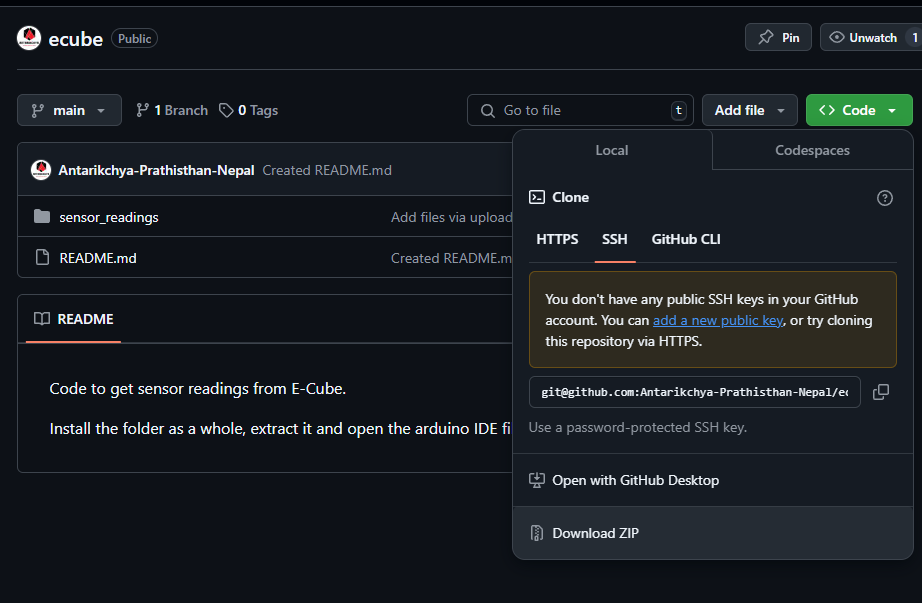
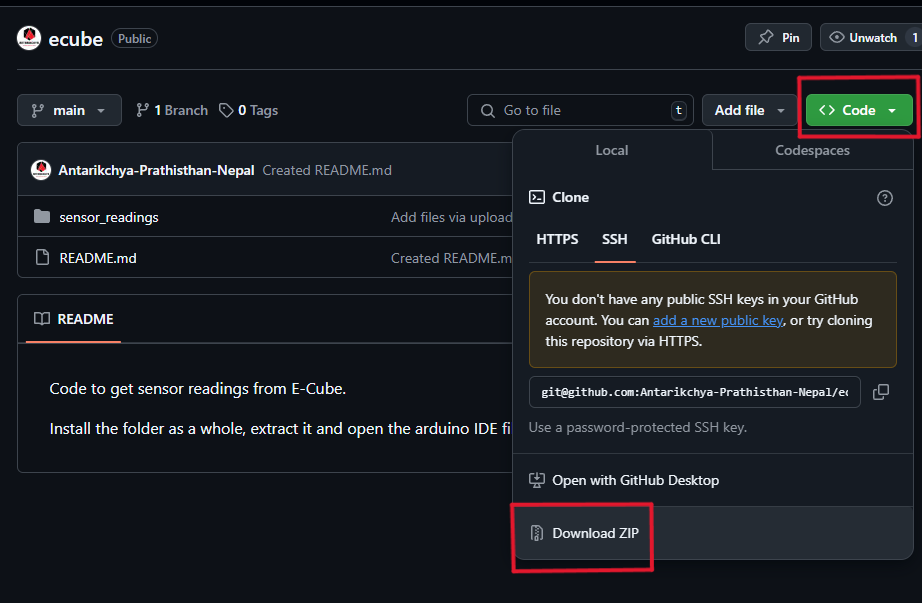
operation guide update

Changed region(s): [[0.5466, 0.806, 0.7289, 0.9552], [0.8503, 0.1194, 1.0, 0.2388]]

diff --git a/en/operationguide/executingthecode.md b/en/operationguide/executingthecode.md
@@ -4,33 +4,52 @@ In this section, we will test our E-Cube by running a pre-written code for E-Cub
 
 ## Step 0: E-Cube Assembly
 
+ The first and the foremost step for using your E-Cube is assembling it. Head over to [Assembly](/en/assembly/index.md) to assemble your E-Cube.
 
 ## Step 1: Environment Setup
 Before Programming, Make sure you have properly setup the environment from [Environment Setup](environmentsetup.md).
 
-This includes setting up Arduino IDE, Properly Connecting 
+This includes setting up Arduino IDE, Board Prefrences and options in the Arduino IDE.
 
 Connect the E-Cube to your PC using the USB Cable provided.
 
-## Code Download
+## Step 2: Code Download
 
 Download the ECube Code from the [Antarikchya GitHub](https://github.com/Antarikchya-Prathisthan-Nepal/ecube/tree/main)
 
+
+
+### a) Follow the link
+### b) Press on the green `code` button
+### c) Press on Download ZIP
 <div style="text-align: center;"><img src="../../public/github1.png" title="On Board Computer" style="max-width: 80%; height: auto; width: 600px; margin-top: 20px;" /></div>
 
-- Follow the link
-- Press on the green `code` button
-- Press on Download ZIP
-- Extract the code
-- Open sensor_readings.ino
+
+### d) Extract the code
+
+ Open "sensor_readings.ino" .
+
+::: danger Caution
+**Do not RENAME, MOVE, OR CHANGE any files in this folder. The .ino file should have the exact name as the folder that contains it.**
+:::
+
+<div style="text-align: center;"><img src="../../public/extract.png" title="On Board Computer" style="max-width: 80%; height: auto; width: 600px; margin-top: 20px;" /></div>
+
 
 This is a pre-written code for E-Cube. When you open the file, it should directly open the installed Arduino IDE. 
 
-## Running the code
 
-Head to [Environment Setup](environmentsetup.md) for the setting up environment guide.
+<div style="text-align: center;"><img src="../../public/sensorino.png" title="On Board Computer" style="max-width: 80%; height: auto; width: 600px; margin-top: 20px;" /></div>
 
-### Select the Board and Port
+When you open the sensor.ino file, all the other source (.c) and header (.h) files will open automatically in multiple tabs.
+
+The sensor.ino file is your main file. This is the file that you will upload in the ecube. Select this tab.
+
+## Step 4: Running the code
+
+Reminder: head to [Environment Setup](environmentsetup.md) for the setting up environment guide before running the code.
+
+### a) Select the Board and Port
 1. Go to **Tools > Board > ESP32 Arduino > ESP32S3 Dev Module**.
 2. Go to **Tools > Port** and select the port where your E-Cube is connected
 2. Ensure the **"USB CDC on Boot"** feature is enabled.
@@ -41,16 +60,16 @@ The following options in the tools section of Arduino IDE are recommended for EC
 
 Upload the code. Look out for the `done uploading` message in terminal.
 
-## Once Your Code is Uploaded
+## Step 5: Once Your Code is Uploaded
 After successfully uploading your code, you can monitor the output using the Serial Monitor or Serial Plotter.
 
-### Opening the Serial Monitor
+### a) Opening the Serial Monitor
 1. Use the shortcut **Ctrl + Shift + M** (Windows/Linux) or **Cmd + Shift + M** (Mac).
 2. Alternatively, go to **Tools > Serial Monitor** in the Arduino IDE.
 3. Ensure the correct baud rate (e.g., **115200**) is selected to match the one in your code.
 4. Observe the printed output in real-time.
 
-### Using the Serial Plotter
+### b) Using the Serial Plotter
 1. Open the Serial Plotter with **Ctrl + Shift + L** (Windows/Linux) or **Cmd + Shift + L** (Mac).
 2. Alternatively, go to **Tools > Serial Plotter**.
 3. The Serial Plotter graphically represents numerical data sent via `Serial.println(value)`, making it useful for sensor data visualization.

diff --git a/en/operationguide/environmentsetup.md b/en/operationguide/environmentsetup.md
@@ -29,11 +29,16 @@ Follow the installation instructions for your operating system to install the Ar
 2. Search for **"ESP32 by Espressif Systems"**.
 3. Click **Install** to install the package.
 
-## Step 4: Select the Board
+<div style="text-align: center;"><img src="../../public/ide_2.png" title="On Board Computer" style="max-width: 80%; height: auto; width: 600px; margin-top: 20px;" /></div>
+
+## Step 4: Select the Board and Port
 1. Go to **Tools > Board > ESP32 Arduino > ESP32S3 Dev Module**.
 2. Ensure the **"USB CDC on Boot"** feature is enabled.
 
-## Step 5: Select the Port
+<div style="text-align: center;"><img src="../../public/ide_1.png" title="On Board Computer" style="max-width: 100%; height: auto; width: 700px; margin-top: 20px;" /></div>
+
+
+### Select the Port
 1. Connect your ESP32S3 Dev Module to your computer via USB.
 2. Open the Arduino IDE and go to **Tools > Port**.
 3. Select the appropriate COM port (e.g., **COM3** or **/dev/ttyUSB0** for Linux/macOS).
